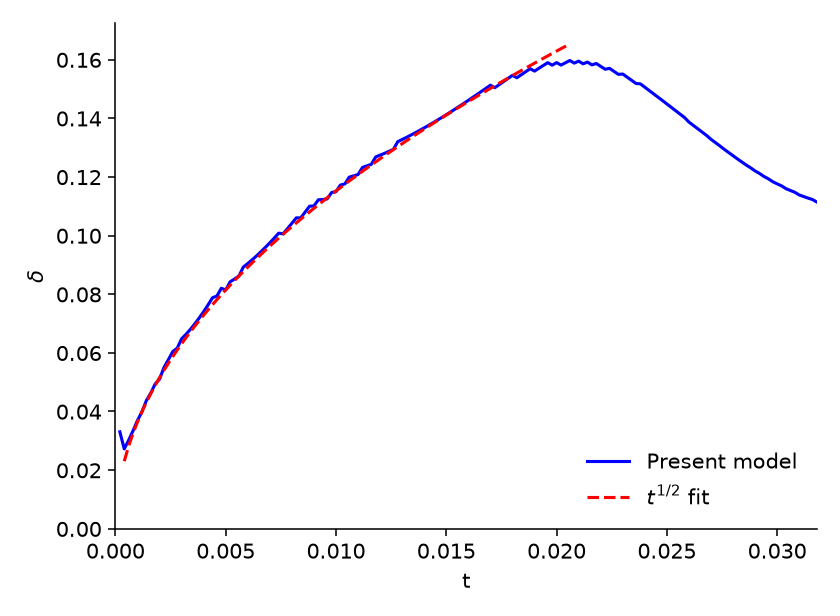
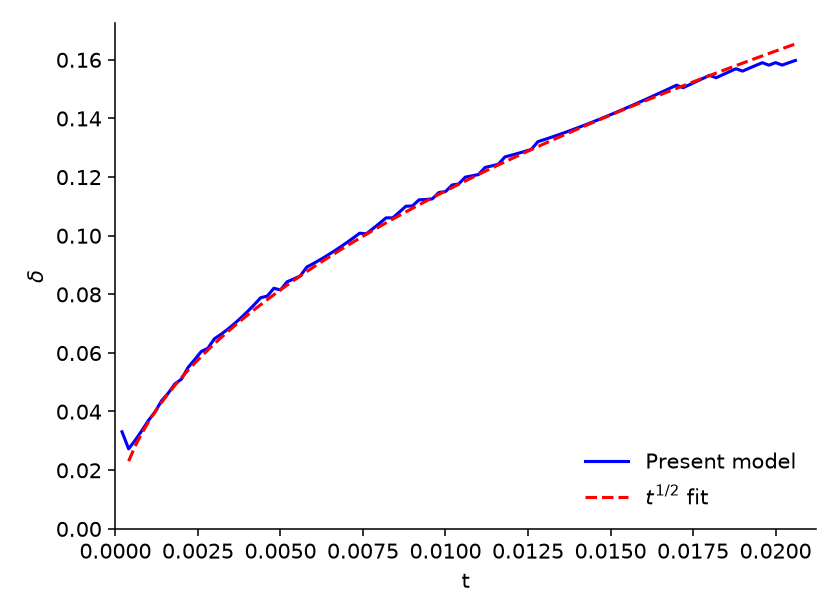
Single pore: thickness plot ends at peak thickness

diff --git a/ekpn_viz/presets.py b/ekpn_viz/presets.py
@@ -115,11 +115,12 @@ def single_pore(run_dir, network, dt, write_every, out="docs/figures", prefix="s
     pw = np.polyfit(np.log(times[prop]), np.log(th[prop]), 1) if prop.sum() > 2 else [np.nan, np.nan]
     r2 = 1 - np.sum((th[prop] - a * np.sqrt(times[prop])) ** 2) / np.sum((th[prop] - th[prop].mean()) ** 2)
     fig, ax = plt.subplots(figsize=(6.0, 4.4))
-    ax.plot(times, th, "b-", lw=1.6, label="Present model")
     tf = times[prop]
+    kend = (np.nonzero(times <= tf[-1])[0][-1] + 1) if tf.size else len(times)  # stop at peak thickness
+    ax.plot(times[:kend], th[:kend], "b-", lw=1.6, label="Present model")
     ax.plot(tf, a * np.sqrt(tf), "r--", lw=1.6, label=r"$t^{1/2}$ fit")
     ax.set_xlabel("t"); ax.set_ylabel(r"$\delta$")
-    ax.set_xlim(0, times[-1]); ax.set_ylim(0, None)
+    ax.set_xlim(0, 1.03 * times[kend - 1]); ax.set_ylim(0, None)
     ax.legend(frameon=False, loc="lower right")
     fig.tight_layout(); fig.savefig(pre + "_thickness.png", dpi=140); plt.close(fig)
     print(f"thickness fit: delta = {a:.4g} t^0.5 over t <= {tf[-1] if tf.size else np.nan:.4g}, "

diff --git a/docs/figures/README.md b/docs/figures/README.md
@@ -14,7 +14,7 @@ Same physics as the I_tot = 23.2686 baseline, with frequent snapshots over the f
     ekpn-viz single-pore run --network run/input_files/Network.in --dt 1e-4 --write-every 2 \
         --log run/log.txt --out docs/figures --mp4 --stop-at-stall
 
-`--stop-at-stall` ends all single-pore figures and the video when the front first comes within 1% of the pore
+`--stop-at-stall` ends the single-pore space-time plot and the video when the front first comes within 1% of the pore
 length of its final position (here x = 0.055 at t = 0.032); the stalled period after that is left out.
 
 - `single_pore_schematic.png`: drawing of a charged pore between two reservoirs
@@ -22,7 +22,7 @@ length of its final position (here x = 0.055 at t = 0.032); the stalled period a
 - `single_pore_spacetime.png`: C_bar(x, t), x across and t up, black = depleted, dashed line = front
   (C_bar = C_bar_inlet / 2); layout follows Alizadeh, PhD dissertation, Stanford University, 2017
 - `single_pore_thickness.png`: shock thickness vs t, where thickness = C_bar_inlet / |dC_bar/dx| at the half
-  level (the tangent there, run from C_bar = 0 to C_bar_inlet), with a t^1/2 fit up to the peak thickness
+  level (the tangent there, run from C_bar = 0 to C_bar_inlet), with a t^1/2 fit; curve and fit both end at the peak thickness (t = 0.0206)
 - `single_pore_shock.mp4` / `.gif`: the front, animated
 
 ## H-junction (`hjunction_*`)

diff --git a/README.md b/README.md
@@ -18,7 +18,7 @@ Left: the pore between two reservoirs. Right: the shock moving into the pore.
   <img src="docs/figures/single_pore_thickness.png" width="49%" alt="single pore shock thickness">
 </p>
 
-Left: C̄(x, t), black = depleted, dashed line = shock front. Right: shock thickness, which grows like t^1/2 while the front moves freely. Both end when the front reaches the inlet end.
+Left: C̄(x, t), black = depleted, dashed line = shock front. Right: shock thickness, which grows like t^1/2 while the front moves freely (shown up to its peak).
 
 **H-junction** (3200/30/3200 cells, V = 400 / 160 on the top channel, bottom grounded). A depletion shock
 grows in the top channel next to the nanochannel and an enriched zone forms in the bottom channel.
